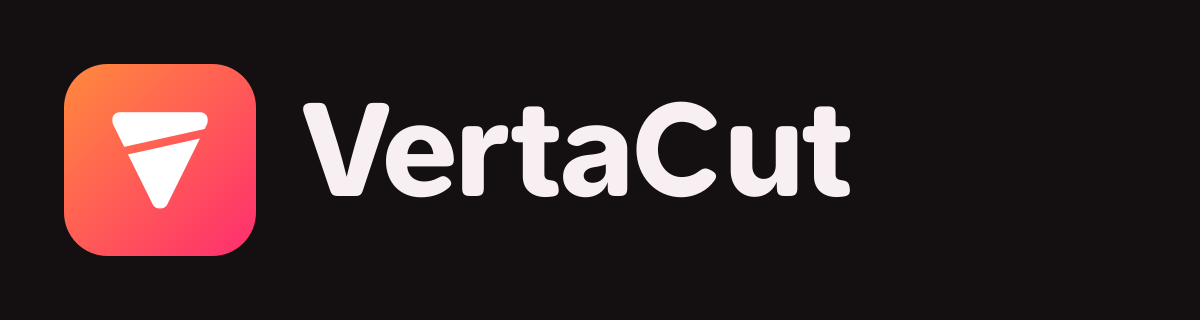
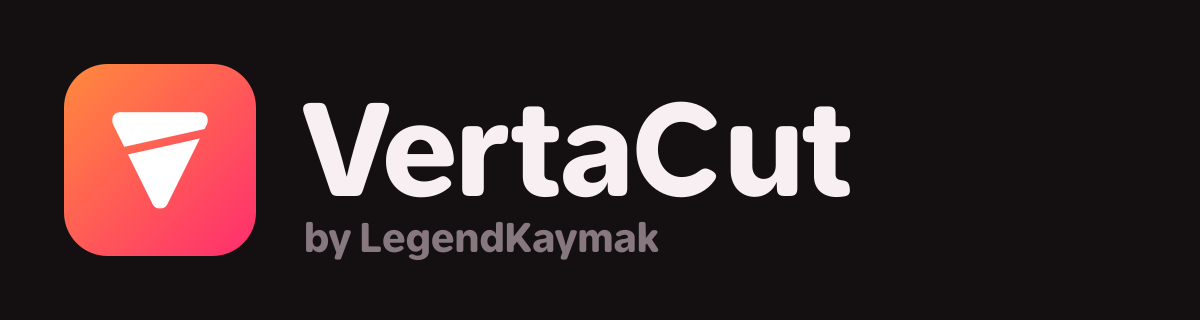
VertaCut by LegendKaymak imzası ve iki dilli README

Changed region(s): [[0.2467, 0.6875, 0.555, 0.8125]]

diff --git a/index.html b/index.html
@@ -3,7 +3,8 @@
 <head>
 <meta charset="utf-8">
 <meta name="viewport" content="width=device-width, initial-scale=1, viewport-fit=cover">
-<title>VertaCut: yayından dikey klip</title>
+<title>VertaCut by LegendKaymak</title>
+<meta name="author" content="LegendKaymak">
 <meta name="description" content="Uzun yayın videolarından altyazılı 9:16 dikey klipler çıkar. Video tarayıcından hiç çıkmaz.">
 <meta name="theme-color" content="#141012">
 <script>try{var t=(JSON.parse(localStorage.getItem("vertacut.settings.v1")||"{}").theme)||"sunset";if(t==="system")t=matchMedia("(prefers-color-scheme: light)").matches?"light":"sunset";document.documentElement.dataset.theme=t;}catch(e){}</script>
@@ -69,7 +70,7 @@
 <!-- ============ ANA EKRAN ============ -->
 <main id="home" class="view home" data-view="home">
   <header class="home-bar">
-    <a class="wordmark" href="#" aria-label="VertaCut ana sayfa"><svg class="wm-mark" viewBox="0 0 512 512" aria-hidden="true"><defs><linearGradient id="wmG" x1="0" y1="0" x2="1" y2="1"><stop offset="0" stop-color="#FF8A3D"/><stop offset="1" stop-color="#FF2D6F"/></linearGradient><mask id="wmM"><rect width="512" height="512" fill="#fff"/><path d="M80 250 L440 170" stroke="#000" stroke-width="22"/></mask></defs><rect width="512" height="512" rx="116" fill="url(#wmG)"/><path d="M150 150 H362 L256 364 Z" fill="#fff" stroke="#fff" stroke-width="44" stroke-linejoin="round" mask="url(#wmM)"/></svg>VertaCut</a>
+    <a class="wordmark" href="#" aria-label="VertaCut by LegendKaymak, ana sayfa"><svg class="wm-mark" viewBox="0 0 512 512" aria-hidden="true"><defs><linearGradient id="wmG" x1="0" y1="0" x2="1" y2="1"><stop offset="0" stop-color="#FF8A3D"/><stop offset="1" stop-color="#FF2D6F"/></linearGradient><mask id="wmM"><rect width="512" height="512" fill="#fff"/><path d="M80 250 L440 170" stroke="#000" stroke-width="22"/></mask></defs><rect width="512" height="512" rx="116" fill="url(#wmG)"/><path d="M150 150 H362 L256 364 Z" fill="#fff" stroke="#fff" stroke-width="44" stroke-linejoin="round" mask="url(#wmM)"/></svg><span class="wm-text">VertaCut <small>by LegendKaymak</small></span></a>
     <div class="bar-actions">
       <button class="btn text" id="installBtn" hidden><svg class="ic"><use href="#i-download"/></svg>Uygulamayı yükle</button>
       <button class="btn icon" data-open-settings aria-label="Ayarlar" title="Ayarlar"><svg class="ic"><use href="#i-sliders"/></svg></button>
@@ -111,7 +112,7 @@
       <li><span class="n">4</span><div><h3>İnce ayar ve dışa aktar</h3><p>Kırp, altyazı stilini seç, boşlukları otomatik kes ve hepsini sırayla indir.</p></div></li>
     </ol>
   </section>
-  <footer class="home-foot">VertaCut, tarayıcında çalışan açık bir web uygulamasıdır. API anahtarların yalnızca bu cihazda saklanır.</footer>
+  <footer class="home-foot">VertaCut by LegendKaymak. Tarayıcında çalışır; API anahtarların yalnızca bu cihazda saklanır.</footer>
 </main>
 
 <!-- ============ ÇALIŞMA ALANI ============ -->

diff --git a/css/app.css b/css/app.css
@@ -223,6 +223,8 @@ input[type=range]::-moz-range-thumb { width: 4px; height: 20px; border: 0; borde
 .bar-actions { margin-left: auto; display: flex; gap: 4px; align-items: center; }
 .wordmark { display: inline-flex; align-items: center; gap: 10px; font-weight: 800; font-size: 19px; letter-spacing: -0.02em; color: var(--text); text-decoration: none; }
 .wm-mark { width: 28px; height: 28px; flex: none; }
+.wm-text small { font-size: 13px; font-weight: 500; color: var(--text-3); letter-spacing: 0; margin-left: 4px; }
+body.m .wm-text small { display: block; margin: -3px 0 0; font-size: 11px; line-height: 1; }
 
 .hero { display: grid; grid-template-columns: 1.05fr 1fr; gap: 56px; align-items: center; padding: 40px 0 64px; }
 .hero h1 { font-size: clamp(38px, 5.4vw, 66px); line-height: 1.04; font-weight: 800; letter-spacing: -0.018em; max-width: 12ch; text-wrap: balance; }

diff --git a/sw.js b/sw.js
@@ -1,5 +1,5 @@
 // VertaCut service worker: uygulama kabuğunu önbelleğe alır, çevrimdışı açılır.
-const VERSION = 'vertacut-v1.8.1';
+const VERSION = 'vertacut-v1.8.2';
 const SHELL = [
   './', './index.html', './css/app.css', './manifest.webmanifest',
   './js/app.js', './js/util.js', './js/db.js', './js/audio.js', './js/ai.js',

diff --git a/README.md b/README.md
@@ -1,70 +1,145 @@
-# VertaCut
+<p align="center"><img src="icons/wordmark.png" alt="VertaCut by LegendKaymak" width="520"></p>
 
-Uzun yayın videolarından altyazılı 9:16 dikey klipler çıkaran web uygulaması. Tamamen tarayıcıda çalışır, sunucu gerekmez.
+<p align="center"><b>Turn long livestreams into captioned 9:16 vertical clips, right in your browser.</b><br>
+<a href="#english">English</a> · <a href="#türkçe">Türkçe</a></p>
 
-## Yayınlama
+---
 
-Statik bir sitedir; derleme adımı yoktur.
+## English
 
-- **Netlify:** app.netlify.com/drop adresine bu klasörü sürükle bırak.
-- **GitHub Pages:** Klasörü bir depoya yükle, Settings → Pages → `main` dalı / kök.
-- **Yerelde:** `python -m http.server 8080` ve `http://localhost:8080`.
+VertaCut by LegendKaymak finds the best moments in a long stream, places your facecam, adds word-by-word animated captions and a hook, and exports ready-to-post MP4 clips for TikTok, YouTube Shorts and Instagram Reels. Everything runs in the browser: your video never leaves your device.
 
-`index.html` dosyasına çift tıklayarak açmak çalışmaz (modüller ve service worker için sunucu gerekir).
+### Features
 
-## Uygulama olarak yükleme
+**Finding clips**
+- AI picks the best moments with a virality score, reason, title, hook, hashtags and emphasis words
+- Search by prompt ("funny moments", "tutorial parts")
+- Works without an API key: detects hype moments from audio reactions
+- Import Twitch / YouTube chat logs; chat spikes feed the hype map and the AI
+- One-click highlight montage from the top-scoring moments
+- Mark clips manually with `I` / `O`, by dragging on the hype map, or by selecting transcript text
 
-Chrome/Edge'de site açıkken adres çubuğundaki yükle simgesine veya sağ üstteki **Uygulamayı yükle** düğmesine bas. Yüklenince video dosyalarına sağ tıklayıp "Birlikte aç → VertaCut" diyebilirsin.
+**Editing**
+- 6 layouts: facecam + gameplay, full screen, blurred background, picture-in-picture, camera only, half split
+- 9:16, 4:5 and 1:1 formats
+- Auto zoom on emphasized words and reaction moments, motion-based auto reframing
+- Jump-cut silences and remove filler words (uh, um, hmm…)
+- Teaser intro: the 3 punchiest moments with flash transitions
+- Undo / redo, keyboard shortcuts (`?`)
 
-## API anahtarları
+**Captions and text**
+- 7 animated caption styles, kinetic emphasis, per-word editing and caption translation
+- Hook card designer: 8 styles, colors, font, size, tilt, corner radius, emoji and 5 entrance animations; the AI designs it to match the content
+- Logo watermark (9 positions), channel name, progress bar
+- TikTok / Shorts / Reels safe-zone preview
 
-Ayarlar → AI analizi ve Transkript bölümleri. Anahtarlar sadece tarayıcında (localStorage) saklanır.
+**Audio**
+- Background music with automatic ducking under speech
+- Pop sound effect on emphasized words
+- Clean audio: hum removal, voice clarity and leveling
+
+**Publishing**
+- MP4 export (H.264), SRT download, cover image (PNG)
+- Platform titles, descriptions and hashtags; YouTube chapters for the full stream
+- Share directly from your phone
+- Installable as an app (PWA), works offline, mobile mode, 5 themes
+
+### Getting started
+
+VertaCut is a static site with no build step.
+
+- **Vercel / Netlify:** deploy this folder as a static site.
+- **GitHub Pages:** Settings → Pages → `main` branch / root.
+- **Locally:** `python3 -m http.server 8080`, then open `http://localhost:8080`.
+
+Opening `index.html` directly from disk does not work; modules and the service worker need a server.
+
+### API keys
+
+On first launch a setup guide asks which AI you want to use and walks you through getting a key. Keys are stored only in your browser.
+
+| Task | Recommended | Notes |
+|---|---|---|
+| Transcription | Groq Whisper | Free tier, very fast, word-level timestamps |
+| Clip analysis | Google Gemini | Free tier; automatic model fallback when a quota runs out |
+
+OpenAI, Anthropic Claude, OpenRouter, xAI, DeepSeek, Ollama (local) and any OpenAI-compatible endpoint are also supported.
+
+### Good to know
+
+- Export runs in real time (a 30 s clip takes about 30 s); keep the tab open.
+- Best results in Chrome or Edge (H.264 MP4). Firefox exports WebM.
+- Videos larger than 1.4 GB are scanned at 4× speed to extract audio.
+
+---
+
+## Türkçe
+
+VertaCut by LegendKaymak, uzun bir yayının en güçlü anlarını bulur, facecam'i yerleştirir, kelime kelime animasyonlu altyazı ve kanca ekler; TikTok, YouTube Shorts ve Instagram Reels için paylaşılmaya hazır MP4 klipler çıkarır. Her şey tarayıcıda çalışır, videon cihazından hiç çıkmaz.
+
+### Özellikler
+
+**Klip bulma**
+- AI en iyi anları viral puan, gerekçe, başlık, kanca, etiket ve vurgu kelimeleriyle seçer
+- İsteğe göre arama ("komik anlar", "öğretici kısımlar")
+- API anahtarı olmadan da çalışır: ses tepkilerinden hype anlarını bulur
+- Twitch / YouTube sohbet kaydı içe aktarma; sohbet patlamaları hype haritasına ve AI'ya eklenir
+- En yüksek puanlı anlardan tek tıkla montaj
+- `I` / `O` ile, hype haritasında sürükleyerek ya da transkriptten metin seçerek elle klip
+
+**Düzenleme**
+- 6 düzen: facecam + oyun, tam ekran, bulanık arka plan, resim içinde resim, sadece kamera, yarım bölme
+- 9:16, 4:5 ve 1:1 formatlar
+- Vurgulu kelimelerde ve tepki anlarında otomatik zoom, hareket takibiyle otomatik kadraj
+- Sessiz boşlukları kesme ve dolgu kelimelerini (ııı, eee, hmm…) temizleme
+- Teaser girişi: en vurucu 3 an, flaş geçişlerle
+- Geri al / yinele, klavye kısayolları (`?`)
+
+**Altyazı ve metin**
+- 7 animasyonlu altyazı stili, kinetik vurgu, kelime kelime düzenleme ve altyazı çevirisi
+- Kanca kartı tasarımcısı: 8 stil, renk, yazı tipi, boyut, eğim, köşe, emoji ve 5 giriş animasyonu; AI içeriğe göre kendisi tasarlar
+- Logo filigranı (9 konum), kanal adı, ilerleme çubuğu
+- TikTok / Shorts / Reels güvenli alan önizlemesi
+
+**Ses**
+- Konuşmada otomatik kısılan arka plan müziği
+- Vurgulu kelimelerde pop efekti
+- Sesi iyileştir: uğultu kesme, netlik ve seviye dengeleme
+
+**Yayınlama**
+- MP4 (H.264) dışa aktarma, SRT indirme, kapak görseli (PNG)
+- Platformlara özel başlık, açıklama ve etiketler; uzun yayın için YouTube bölümleri
+- Telefondan doğrudan paylaşma
+- Uygulama olarak yüklenebilir (PWA), çevrimdışı açılır, mobil mod, 5 tema
+
+### Başlarken
+
+VertaCut derleme adımı olmayan statik bir sitedir.
+
+- **Vercel / Netlify:** bu klasörü statik site olarak yayınla.
+- **GitHub Pages:** Settings → Pages → `main` dalı / kök.
+- **Yerelde:** `python3 -m http.server 8080`, sonra `http://localhost:8080`.
+
+`index.html` dosyasını doğrudan diskten açmak çalışmaz; modüller ve service worker için sunucu gerekir.
+
+### API anahtarları
+
+İlk açılışta bir kurulum rehberi hangi AI'ı kullanmak istediğini sorar ve anahtarı nasıl alacağını adım adım gösterir. Anahtarlar yalnızca tarayıcında saklanır.
 
 | İş | Önerilen | Not |
 |---|---|---|
-| Yazıya dökme | Groq Whisper | Ücretsiz katman, çok hızlı, kelime zamanları |
-| Klip analizi | Google Gemini | Ücretsiz katman, uzun transkriptleri rahat okur |
+| Yazıya dökme | Groq Whisper | Ücretsiz katman, çok hızlı, kelime zamanlı |
+| Klip analizi | Google Gemini | Ücretsiz katman; kota dolunca otomatik olarak başka modele geçer |
 
-Ayrıca OpenAI, Anthropic Claude, OpenRouter, xAI, DeepSeek, Ollama (yerel) ve OpenAI uyumlu özel uç noktalar desteklenir. Anahtar yoksa "Sesten" düğmesi yüksek ses tepkilerinden klip bulur.
+OpenAI, Anthropic Claude, OpenRouter, xAI, DeepSeek, Ollama (yerel) ve OpenAI uyumlu her uç nokta da desteklenir.
 
-## Öne çıkan özellikler
+### Bilinmesi gerekenler
 
-- AI ile en iyi anları bulma: viral puan, gerekçe, başlık, kanca, etiket ve emojili vurgu kelimeleri
-- API anahtarı olmadan ses tepkilerinden hype anı bulma, SRT/VTT içe aktarma
-- 6 düzen (facecam + oyun, tam ekran, bulanık arka plan, PiP, sadece kamera, yarım bölme)
-- 7 animasyonlu altyazı stili, kelime kelime düzenleme, altyazı çevirisi
-- Otomatik zoom: vurgulu kelimelerde ve tepki anlarında yumuşak yakınlaşma
-- Jump-cut: sessiz boşlukları otomatik kesme
-- TikTok / Shorts / Reels güvenli alan önizlemesi
-- AI ile 5 kanca önerisi, kapak görseli (PNG), SRT indirme
-- Tek tıkla montaj: en yüksek puanlı anlardan tek "en iyi anlar" videosu
-- Sohbet kaydı ile hype: TwitchDownloader / chat-downloader JSON veya zaman damgalı metin
-- Arka plan müziği (konuşmada otomatik kısılır) ve vurgulu kelimelerde pop efekti
-- Telefonda dışa aktarılan klibi doğrudan paylaşma
-- Kanca kartı tasarımcısı: 8 stil, renk, yazı tipi, boyut, eğim, köşe, emoji, 5 animasyon; AI klip bulurken stili içeriğe göre kendisi seçer, "AI tasarlasın" ile yeniden tasarlar
-- Teaser girişi: klibin en vurucu 3 anı flaş geçişlerle başta
-- Dolgu kelimesi temizleme (ııı, eee, hmm, um…)
-- Otomatik kadraj: tam ekran düzende hareket takibi
-- Logo filigranı (9 konum, boyut, saydamlık)
-- 9:16, 4:5 ve 1:1 formatlar
-- İsteğe göre klip arama ("komik anlar" gibi)
-- Sesi iyileştir (uğultu kesme, netlik, kompresör)
-- YouTube bölümleri, başlık ve açıklama
-- Kinetik altyazı vurgusu
-- Geri al / yinele, klavye kısayolları (`?`)
-- İlk açılışta adım adım API kurulum rehberi: hangi AI'ı kullanacağını seçersin (ücretsiz / ücretli / önerilen etiketleriyle); Ayarlar → AI analizi'nden de açılır
-- Gemini için otomatik model: bir model kotaya takılırsa sıradakini dener
-- Yazıya dökmeden önce konuşma dili ve başlık dili seçimi
-- Mobil mod: alt gezinme (Video / Klipler / Metin), önizlemesi sabit editör, alttan açılan paneller; Ayarlar → Görünüm'den zorla açılabilir
-- Temalar: Gün batımı, Açık, OLED siyah, Gece moru, Sisteme uy
+- Dışa aktarma gerçek zamanlıdır (30 sn klip yaklaşık 30 sn sürer); sekmeyi açık tut.
+- En iyi sonuç Chrome veya Edge'de alınır (H.264 MP4). Firefox WebM üretir.
+- 1,4 GB'tan büyük videolarda ses, video 4× hızda taranarak çıkarılır.
 
-## Bilinmesi gerekenler
+---
 
-- Dışa aktarma gerçek zamanlıdır (30 sn klip ≈ 30 sn). Bu sürede sekmeyi açık tut.
-- En iyi sonuç: Chrome veya Edge (H.264 MP4). Firefox WebM üretir.
-- 1,4 GB'tan büyük videolarda ses, videoyu 4× hızda tarayarak çıkarılır (2 saatlik yayın ≈ 30 dk).
-- Ollama için `OLLAMA_ORIGINS=*` ortam değişkeniyle başlatman gerekir.
-
-## Yazı tipi
-
-Arayüz yazı tipi **Allo** (Josh Puckett), SIL Open Font License 1.1 ile lisanslıdır ve `fonts/` klasöründen sunulur. Lisans metni: `fonts/OFL-Allo.txt`.
+<sub>Interface font: <b>Allo</b> by Josh Puckett, SIL Open Font License 1.1 (<code>fonts/OFL-Allo.txt</code>).<br>
+Arayüz yazı tipi: Josh Puckett'in <b>Allo</b>'su, SIL Open Font License 1.1 ile.</sub>
